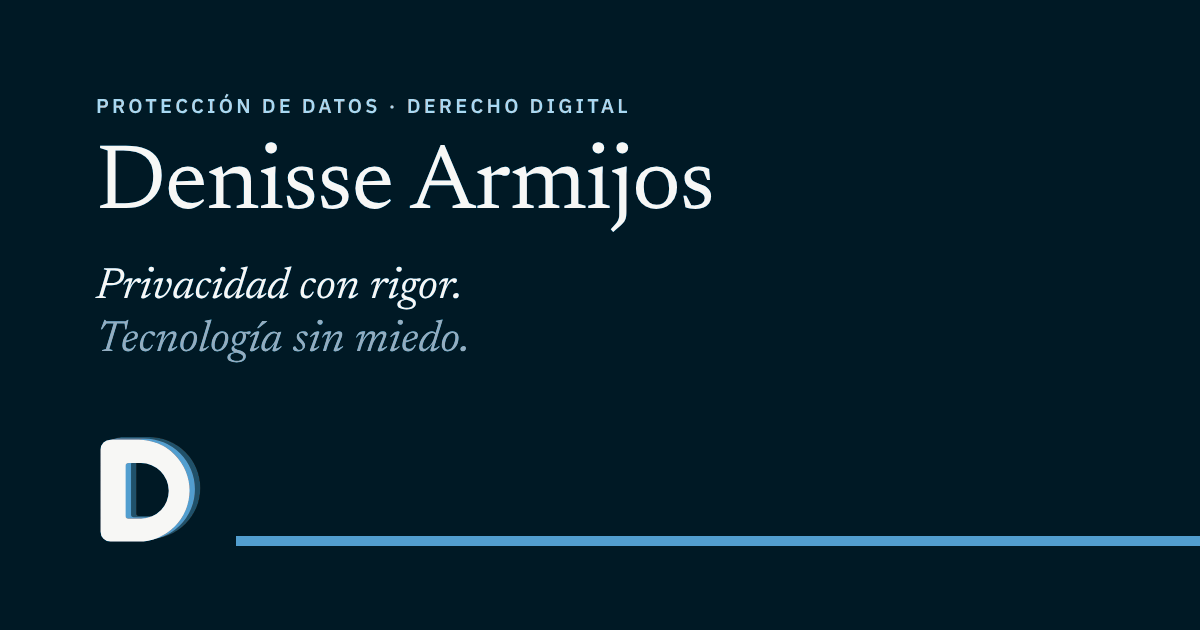
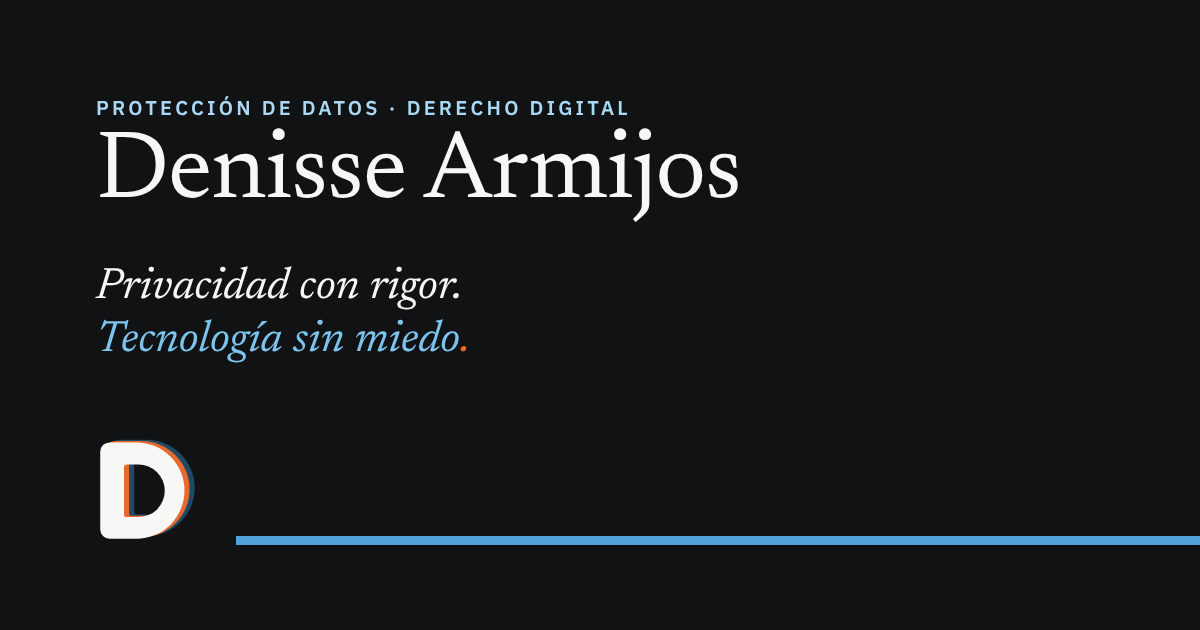
Paleta final: negro, beige, celeste como acento y naranja en los detalles
Claude-Session: https://claude.ai/code/session_01Mn9bzAvCkAq1xe9Q4DXtMq

diff --git a/perfil.html b/perfil.html
@@ -15,7 +15,7 @@
 <meta property="og:locale" content="es_EC">
 <meta name="twitter:card" content="summary_large_image">
 <link rel="stylesheet" href="fonts.css">
-<link rel="stylesheet" href="styles.css?v=20261123b">
+<link rel="stylesheet" href="styles.css?v=20261123c">
 <link rel="icon" href="favicon.svg" type="image/svg+xml">
 <link rel="apple-touch-icon" href="apple-touch-icon.png">
 <script>if('IntersectionObserver' in window && !matchMedia('(prefers-reduced-motion: reduce)').matches) document.documentElement.classList.add('anim');</script>
@@ -50,8 +50,8 @@ a:focus-visible, button:focus-visible { outline: 2px solid var(--senal); outline
 .wrap { max-width: var(--max); margin: 0 auto; padding-left: max(24px, env(safe-area-inset-left, 0px)); padding-right: max(24px, env(safe-area-inset-right, 0px)); }
 @media (max-width: 480px) { .wrap { padding-left: max(16px, env(safe-area-inset-left, 0px)); padding-right: max(16px, env(safe-area-inset-right, 0px)); } }
 .kicker { font-size: 12px; font-weight: 600; letter-spacing: .16em; text-transform: uppercase; }
-.mark { --d1: var(--senal); --d2: #CBE6F5; color: var(--tinta); }
-.mark.on-dark { --d1: var(--senal); --d2: #1E4A63; color: var(--papel); }
+.mark { --d1: var(--naranja); --d2: #CBE6F5; color: var(--tinta); }
+.mark.on-dark { --d1: var(--naranja-claro); --d2: #1E4A63; color: var(--papel); }
 
 
 /* Portada de la biografía */
@@ -95,7 +95,7 @@ a:focus-visible, button:focus-visible { outline: 2px solid var(--senal); outline
 /* Trabajemos juntos */
 .cta { background: var(--blanco); border-top: 1px solid var(--niebla); border-bottom: 1px solid var(--niebla); }
 .cta .wrap { padding-block: 88px; }
-.cta h2 .punto { color: var(--senal); }
+.cta h2 .punto { color: var(--naranja); }
 .cta h2 { font-family: var(--display); font-weight: 400; font-size: clamp(34px, 4.4vw, 52px); line-height: 1.05; letter-spacing: -.01em; margin: 0 0 40px; max-width: 18ch; }
 .offers { display: grid; grid-template-columns: repeat(3, minmax(0, 1fr)); gap: 28px; margin-bottom: 48px; }
 .offer { border-top: 2px solid var(--tinta); padding-top: 18px; display: grid; gap: 8px; align-content: start; }
@@ -133,7 +133,7 @@ a:focus-visible, button:focus-visible { outline: 2px solid var(--senal); outline
 <svg width="0" height="0" style="position:absolute" aria-hidden="true">
   <symbol id="logo-d" viewBox="90 68 245 252">
     <path style="fill:var(--d2,#CBE6F5)" fill-rule="evenodd" transform="translate(24,-6)" d="M122 83 H185 A113.5 113.5 0 0 1 185 310 H122 A22 22 0 0 1 100 288 V105 A22 22 0 0 1 122 83 Z M162 135 H190 A62 62 0 0 1 190 259 H162 A6 6 0 0 1 156 253 V141 A6 6 0 0 1 162 135 Z"/>
-    <path style="fill:var(--d1,#4FA3D9)" fill-rule="evenodd" transform="translate(12,-3)" d="M122 83 H185 A113.5 113.5 0 0 1 185 310 H122 A22 22 0 0 1 100 288 V105 A22 22 0 0 1 122 83 Z M162 135 H190 A62 62 0 0 1 190 259 H162 A6 6 0 0 1 156 253 V141 A6 6 0 0 1 162 135 Z"/>
+    <path style="fill:var(--d1,#C2410C)" fill-rule="evenodd" transform="translate(12,-3)" d="M122 83 H185 A113.5 113.5 0 0 1 185 310 H122 A22 22 0 0 1 100 288 V105 A22 22 0 0 1 122 83 Z M162 135 H190 A62 62 0 0 1 190 259 H162 A6 6 0 0 1 156 253 V141 A6 6 0 0 1 162 135 Z"/>
     <path fill="currentColor" fill-rule="evenodd" d="M122 83 H185 A113.5 113.5 0 0 1 185 310 H122 A22 22 0 0 1 100 288 V105 A22 22 0 0 1 122 83 Z M162 135 H190 A62 62 0 0 1 190 259 H162 A6 6 0 0 1 156 253 V141 A6 6 0 0 1 162 135 Z"/>
   </symbol>
   <symbol id="arrow" viewBox="0 0 28 14"><path d="M0 7h26M20 1l6 6-6 6" fill="none" stroke="currentColor" stroke-width="1.6"/></symbol>
@@ -306,6 +306,6 @@ a:focus-visible, button:focus-visible { outline: 2px solid var(--senal); outline
   });
 })();
 </script>
-<script src="site.js?v=20261123b" defer></script>
+<script src="site.js?v=20261123c" defer></script>
 </body>
 </html>

diff --git a/publicaciones/politicas-de-privacidad.html b/publicaciones/politicas-de-privacidad.html
@@ -11,7 +11,7 @@
 <meta property="og:description" content="La diferencia entre publicar un documento y garantizar transparencia en el tratamiento de datos personales.">
 <meta property="article:published_time" content="2026-10-21">
 <link rel="stylesheet" href="../fonts.css">
-<link rel="stylesheet" href="../styles.css?v=20261123b">
+<link rel="stylesheet" href="../styles.css?v=20261123c">
 <link rel="icon" href="../favicon.svg" type="image/svg+xml">
 <link rel="apple-touch-icon" href="../apple-touch-icon.png">
 <meta name="theme-color" content="#111214">
@@ -108,7 +108,7 @@ figure.layers figcaption { font-size: 14px; color: var(--art-t2); margin-top: 12
 .refs a { color: var(--acento); overflow-wrap: anywhere; }
 .disclaimer { margin-top: 32px; font-size: 14px; font-style: italic; color: var(--art-t2); }
 .author { margin-top: 56px; background: var(--crema); border: 1px solid var(--linea); padding: 28px; display: grid; grid-template-columns: auto minmax(0, 1fr); gap: 22px; align-items: center; }
-.author svg { width: 48px; height: 50px; color: var(--carbon); --d1: #4FA3D9; --d2: #CBE6F5; }
+.author svg { width: 48px; height: 50px; color: var(--carbon); --d1: #C2410C; --d2: #CBE6F5; }
 .author p { margin: 0; font-size: 15px; color: var(--art-t2); }
 .author strong { font-family: var(--display); font-weight: 500; font-size: 22px; color: var(--carbon); display: block; }
 .more { display: inline-flex; align-items: center; gap: 14px; text-decoration: none; font-size: 13px; font-weight: 600; color: var(--acento); letter-spacing: .18em; text-transform: uppercase; margin-top: 40px; }
@@ -121,7 +121,7 @@ figure.layers figcaption { font-size: 14px; color: var(--art-t2); margin-top: 12
 <svg width="0" height="0" style="position:absolute" aria-hidden="true">
   <symbol id="logo-d" viewBox="90 68 245 252">
     <path style="fill:var(--d2,#CBE6F5)" fill-rule="evenodd" transform="translate(24,-6)" d="M122 83 H185 A113.5 113.5 0 0 1 185 310 H122 A22 22 0 0 1 100 288 V105 A22 22 0 0 1 122 83 Z M162 135 H190 A62 62 0 0 1 190 259 H162 A6 6 0 0 1 156 253 V141 A6 6 0 0 1 162 135 Z"/>
-    <path style="fill:var(--d1,#4FA3D9)" fill-rule="evenodd" transform="translate(12,-3)" d="M122 83 H185 A113.5 113.5 0 0 1 185 310 H122 A22 22 0 0 1 100 288 V105 A22 22 0 0 1 122 83 Z M162 135 H190 A62 62 0 0 1 190 259 H162 A6 6 0 0 1 156 253 V141 A6 6 0 0 1 162 135 Z"/>
+    <path style="fill:var(--d1,#C2410C)" fill-rule="evenodd" transform="translate(12,-3)" d="M122 83 H185 A113.5 113.5 0 0 1 185 310 H122 A22 22 0 0 1 100 288 V105 A22 22 0 0 1 122 83 Z M162 135 H190 A62 62 0 0 1 190 259 H162 A6 6 0 0 1 156 253 V141 A6 6 0 0 1 162 135 Z"/>
     <path fill="currentColor" fill-rule="evenodd" d="M122 83 H185 A113.5 113.5 0 0 1 185 310 H122 A22 22 0 0 1 100 288 V105 A22 22 0 0 1 122 83 Z M162 135 H190 A62 62 0 0 1 190 259 H162 A6 6 0 0 1 156 253 V141 A6 6 0 0 1 162 135 Z"/>
   </symbol>
   <symbol id="arrow" viewBox="0 0 28 14"><path d="M0 7h26M20 1l6 6-6 6" fill="none" stroke="currentColor" stroke-width="1.6"/></symbol>
@@ -375,6 +375,6 @@ figure.layers figcaption { font-size: 14px; color: var(--art-t2); margin-top: 12
   update();
 })();
 </script>
-<script src="../site.js?v=20261123b" defer></script>
+<script src="../site.js?v=20261123c" defer></script>
 </body>
 </html>

diff --git a/styles.css b/styles.css
@@ -1,5 +1,5 @@
 /* Estilos compartidos — marca Denisse Armijos
-   Fondo papel, negro para textos y bloques, un solo acento celeste.
+   Fondo papel, negro para textos y bloques, acento celeste y detalles en naranja.
    Títulos en Newsreader, textos e interfaz en IBM Plex Sans. */
 :root {
   --tinta: #111214;        /* negro: textos, logotipo, bloques */
@@ -7,6 +7,8 @@
   --senal: #4FA3D9;        /* celeste: acento */
   --senal-texto: #1D6A99;  /* celeste para textos pequeños sobre claro */
   --senal-claro: #7CC4EE;  /* celeste sobre fondo negro */
+  --naranja: #C2410C;      /* naranja: detalles (puntos finales y capa del logo) */
+  --naranja-claro: #E8692F;/* naranja sobre fondo negro */
   --senal-suave: #A9D8F2;  /* etiquetas pequeñas sobre fondo negro */
   --niebla: #DEDEDE;       /* líneas y bordes */
   --blanco: #FFFFFF;
@@ -38,8 +40,8 @@ a:focus-visible, button:focus-visible { outline: 2px solid var(--senal); outline
 .date svg { width: 18px; height: 18px; flex: none; }
 
 /* Isotipo e iconos: sus colores se controlan con variables */
-.mark { --d1: var(--senal); --d2: #CBE6F5; color: var(--tinta); }
-.mark.on-dark { --d1: var(--senal); --d2: #1E4A63; color: var(--papel); }
+.mark { --d1: var(--naranja); --d2: #CBE6F5; color: var(--tinta); }
+.mark.on-dark { --d1: var(--naranja-claro); --d2: #1E4A63; color: var(--papel); }
 .ico { width: 56px; height: 56px; flex: none; --ic-line: var(--tinta); --ic-fill: var(--senal); }
 
 /* Enlace con flecha */
@@ -88,7 +90,7 @@ nav.main a[aria-current] { color: var(--senal-texto); border-bottom-color: var(-
 .masthead .wrap { padding-block: 72px 88px; position: relative; }
 .masthead .kicker { display: block; margin-bottom: 18px; }
 .masthead h1 { font-family: var(--display); font-weight: 400; font-size: clamp(42px, 6vw, 76px); line-height: 1.02; letter-spacing: -.015em; margin: 0; max-width: 18ch; text-wrap: balance; }
-.masthead h1 .punto { color: var(--senal); }
+.masthead h1 .punto { color: var(--naranja); }
 .masthead .intro { font-size: clamp(17px, 1.6vw, 20px); line-height: 1.55; color: var(--texto-2); max-width: 58ch; margin: 24px 0 0; }
 .masthead .rule { position: absolute; left: var(--rule-left, 24px); right: 0; bottom: 0; height: 5px; background: var(--senal); }
 @media (min-width: 1228px) { .masthead .rule { --rule-left: calc((100vw - var(--max)) / 2 + 24px); } }
@@ -119,7 +121,7 @@ a.area:hover { border-color: var(--senal); transform: translateY(-2px); }
 .talk { background: var(--tinta); color: var(--papel); }
 .talk .wrap { display: flex; align-items: center; justify-content: space-between; flex-wrap: wrap; gap: 24px 48px; padding-block: 56px; }
 .talk .btn { margin-left: auto; }
-.talk h2 .punto { color: var(--senal-claro); }
+.talk h2 .punto { color: var(--naranja-claro); }
 .talk h2 { font-family: var(--display); font-weight: 400; font-size: clamp(36px, 4.4vw, 52px); line-height: 1; letter-spacing: -.01em; margin: 0; }
 @media (max-width: 600px) { .talk .wrap { padding-block: 44px; } }
 

diff --git a/index.html b/index.html
@@ -16,7 +16,7 @@
 <meta name="twitter:card" content="summary_large_image">
 <link rel="canonical" href="https://darmijosflores.github.io/">
 <link rel="stylesheet" href="fonts.css">
-<link rel="stylesheet" href="styles.css?v=20261123b">
+<link rel="stylesheet" href="styles.css?v=20261123c">
 <link rel="icon" href="favicon.svg" type="image/svg+xml">
 <link rel="apple-touch-icon" href="apple-touch-icon.png">
 <script>if('IntersectionObserver' in window && !matchMedia('(prefers-reduced-motion: reduce)').matches) document.documentElement.classList.add('anim');</script>
@@ -35,7 +35,7 @@
 .hero h1 { font-family: var(--display); font-weight: 400; font-size: clamp(40px, 4.8vw, 68px); line-height: 1.06; letter-spacing: -.02em; margin: 0; }
 .hero h1 .l { display: block; white-space: nowrap; }
 @media (max-width: 760px) { .hero h1 .l { white-space: normal; } }
-.hero h1 .punto { color: var(--senal); }
+.hero h1 .punto { color: var(--naranja); }
 .hero .lede { margin: 26px 0 0; max-width: 34ch; font-size: 18px; line-height: 1.5; color: var(--texto-2); }
 .hero .line { position: absolute; z-index: 1; left: var(--rule-left, 24px); right: 0; bottom: 0; height: 5px; background: var(--senal); transform-origin: left; }
 @media (min-width: 1228px) { .hero .line { --rule-left: calc((100vw - var(--max)) / 2 + 24px); } }
@@ -83,7 +83,7 @@
 <svg width="0" height="0" style="position:absolute" aria-hidden="true">
   <symbol id="logo-d" viewBox="90 68 245 252">
     <path style="fill:var(--d2,#CBE6F5)" fill-rule="evenodd" transform="translate(24,-6)" d="M122 83 H185 A113.5 113.5 0 0 1 185 310 H122 A22 22 0 0 1 100 288 V105 A22 22 0 0 1 122 83 Z M162 135 H190 A62 62 0 0 1 190 259 H162 A6 6 0 0 1 156 253 V141 A6 6 0 0 1 162 135 Z"/>
-    <path style="fill:var(--d1,#4FA3D9)" fill-rule="evenodd" transform="translate(12,-3)" d="M122 83 H185 A113.5 113.5 0 0 1 185 310 H122 A22 22 0 0 1 100 288 V105 A22 22 0 0 1 122 83 Z M162 135 H190 A62 62 0 0 1 190 259 H162 A6 6 0 0 1 156 253 V141 A6 6 0 0 1 162 135 Z"/>
+    <path style="fill:var(--d1,#C2410C)" fill-rule="evenodd" transform="translate(12,-3)" d="M122 83 H185 A113.5 113.5 0 0 1 185 310 H122 A22 22 0 0 1 100 288 V105 A22 22 0 0 1 122 83 Z M162 135 H190 A62 62 0 0 1 190 259 H162 A6 6 0 0 1 156 253 V141 A6 6 0 0 1 162 135 Z"/>
     <path fill="currentColor" fill-rule="evenodd" d="M122 83 H185 A113.5 113.5 0 0 1 185 310 H122 A22 22 0 0 1 100 288 V105 A22 22 0 0 1 122 83 Z M162 135 H190 A62 62 0 0 1 190 259 H162 A6 6 0 0 1 156 253 V141 A6 6 0 0 1 162 135 Z"/>
   </symbol>
   <symbol id="arrow" viewBox="0 0 28 14"><path d="M0 7h26M20 1l6 6-6 6" fill="none" stroke="currentColor" stroke-width="1.6"/></symbol>
@@ -253,6 +253,6 @@
   </div>
 </footer>
 
-<script src="site.js?v=20261123b" defer></script>
+<script src="site.js?v=20261123c" defer></script>
 </body>
 </html>

diff --git a/especializacion.html b/especializacion.html
@@ -16,7 +16,7 @@
 <meta name="twitter:card" content="summary_large_image">
 <link rel="canonical" href="https://darmijosflores.github.io/especializacion.html">
 <link rel="stylesheet" href="fonts.css">
-<link rel="stylesheet" href="styles.css?v=20261123b">
+<link rel="stylesheet" href="styles.css?v=20261123c">
 <link rel="icon" href="favicon.svg" type="image/svg+xml">
 <link rel="apple-touch-icon" href="apple-touch-icon.png">
 <script>if('IntersectionObserver' in window && !matchMedia('(prefers-reduced-motion: reduce)').matches) document.documentElement.classList.add('anim');</script>
@@ -45,7 +45,7 @@
 <svg width="0" height="0" style="position:absolute" aria-hidden="true">
   <symbol id="logo-d" viewBox="90 68 245 252">
     <path style="fill:var(--d2,#CBE6F5)" fill-rule="evenodd" transform="translate(24,-6)" d="M122 83 H185 A113.5 113.5 0 0 1 185 310 H122 A22 22 0 0 1 100 288 V105 A22 22 0 0 1 122 83 Z M162 135 H190 A62 62 0 0 1 190 259 H162 A6 6 0 0 1 156 253 V141 A6 6 0 0 1 162 135 Z"/>
-    <path style="fill:var(--d1,#4FA3D9)" fill-rule="evenodd" transform="translate(12,-3)" d="M122 83 H185 A113.5 113.5 0 0 1 185 310 H122 A22 22 0 0 1 100 288 V105 A22 22 0 0 1 122 83 Z M162 135 H190 A62 62 0 0 1 190 259 H162 A6 6 0 0 1 156 253 V141 A6 6 0 0 1 162 135 Z"/>
+    <path style="fill:var(--d1,#C2410C)" fill-rule="evenodd" transform="translate(12,-3)" d="M122 83 H185 A113.5 113.5 0 0 1 185 310 H122 A22 22 0 0 1 100 288 V105 A22 22 0 0 1 122 83 Z M162 135 H190 A62 62 0 0 1 190 259 H162 A6 6 0 0 1 156 253 V141 A6 6 0 0 1 162 135 Z"/>
     <path fill="currentColor" fill-rule="evenodd" d="M122 83 H185 A113.5 113.5 0 0 1 185 310 H122 A22 22 0 0 1 100 288 V105 A22 22 0 0 1 122 83 Z M162 135 H190 A62 62 0 0 1 190 259 H162 A6 6 0 0 1 156 253 V141 A6 6 0 0 1 162 135 Z"/>
   </symbol>
   <symbol id="arrow" viewBox="0 0 28 14"><path d="M0 7h26M20 1l6 6-6 6" fill="none" stroke="currentColor" stroke-width="1.6"/></symbol>
@@ -178,6 +178,6 @@
   </div>
 </footer>
 
-<script src="site.js?v=20261123b" defer></script>
+<script src="site.js?v=20261123c" defer></script>
 </body>
 </html>

diff --git a/investigacion.html b/investigacion.html
@@ -16,7 +16,7 @@
 <meta name="twitter:card" content="summary_large_image">
 <link rel="canonical" href="https://darmijosflores.github.io/investigacion.html">
 <link rel="stylesheet" href="fonts.css">
-<link rel="stylesheet" href="styles.css?v=20261123b">
+<link rel="stylesheet" href="styles.css?v=20261123c">
 <link rel="icon" href="favicon.svg" type="image/svg+xml">
 <link rel="apple-touch-icon" href="apple-touch-icon.png">
 <script>if('IntersectionObserver' in window && !matchMedia('(prefers-reduced-motion: reduce)').matches) document.documentElement.classList.add('anim');</script>
@@ -41,7 +41,7 @@
 <svg width="0" height="0" style="position:absolute" aria-hidden="true">
   <symbol id="logo-d" viewBox="90 68 245 252">
     <path style="fill:var(--d2,#CBE6F5)" fill-rule="evenodd" transform="translate(24,-6)" d="M122 83 H185 A113.5 113.5 0 0 1 185 310 H122 A22 22 0 0 1 100 288 V105 A22 22 0 0 1 122 83 Z M162 135 H190 A62 62 0 0 1 190 259 H162 A6 6 0 0 1 156 253 V141 A6 6 0 0 1 162 135 Z"/>
-    <path style="fill:var(--d1,#4FA3D9)" fill-rule="evenodd" transform="translate(12,-3)" d="M122 83 H185 A113.5 113.5 0 0 1 185 310 H122 A22 22 0 0 1 100 288 V105 A22 22 0 0 1 122 83 Z M162 135 H190 A62 62 0 0 1 190 259 H162 A6 6 0 0 1 156 253 V141 A6 6 0 0 1 162 135 Z"/>
+    <path style="fill:var(--d1,#C2410C)" fill-rule="evenodd" transform="translate(12,-3)" d="M122 83 H185 A113.5 113.5 0 0 1 185 310 H122 A22 22 0 0 1 100 288 V105 A22 22 0 0 1 122 83 Z M162 135 H190 A62 62 0 0 1 190 259 H162 A6 6 0 0 1 156 253 V141 A6 6 0 0 1 162 135 Z"/>
     <path fill="currentColor" fill-rule="evenodd" d="M122 83 H185 A113.5 113.5 0 0 1 185 310 H122 A22 22 0 0 1 100 288 V105 A22 22 0 0 1 122 83 Z M162 135 H190 A62 62 0 0 1 190 259 H162 A6 6 0 0 1 156 253 V141 A6 6 0 0 1 162 135 Z"/>
   </symbol>
   <symbol id="arrow" viewBox="0 0 28 14"><path d="M0 7h26M20 1l6 6-6 6" fill="none" stroke="currentColor" stroke-width="1.6"/></symbol>
@@ -156,6 +156,6 @@
   </div>
 </footer>
 
-<script src="site.js?v=20261123b" defer></script>
+<script src="site.js?v=20261123c" defer></script>
 </body>
 </html>

diff --git a/publicaciones.html b/publicaciones.html
@@ -16,7 +16,7 @@
 <meta name="twitter:card" content="summary_large_image">
 <link rel="canonical" href="https://darmijosflores.github.io/publicaciones.html">
 <link rel="stylesheet" href="fonts.css">
-<link rel="stylesheet" href="styles.css?v=20261123b">
+<link rel="stylesheet" href="styles.css?v=20261123c">
 <link rel="icon" href="favicon.svg" type="image/svg+xml">
 <link rel="apple-touch-icon" href="apple-touch-icon.png">
 <script>if('IntersectionObserver' in window && !matchMedia('(prefers-reduced-motion: reduce)').matches) document.documentElement.classList.add('anim');</script>
@@ -47,7 +47,7 @@
 <svg width="0" height="0" style="position:absolute" aria-hidden="true">
   <symbol id="logo-d" viewBox="90 68 245 252">
     <path style="fill:var(--d2,#CBE6F5)" fill-rule="evenodd" transform="translate(24,-6)" d="M122 83 H185 A113.5 113.5 0 0 1 185 310 H122 A22 22 0 0 1 100 288 V105 A22 22 0 0 1 122 83 Z M162 135 H190 A62 62 0 0 1 190 259 H162 A6 6 0 0 1 156 253 V141 A6 6 0 0 1 162 135 Z"/>
-    <path style="fill:var(--d1,#4FA3D9)" fill-rule="evenodd" transform="translate(12,-3)" d="M122 83 H185 A113.5 113.5 0 0 1 185 310 H122 A22 22 0 0 1 100 288 V105 A22 22 0 0 1 122 83 Z M162 135 H190 A62 62 0 0 1 190 259 H162 A6 6 0 0 1 156 253 V141 A6 6 0 0 1 162 135 Z"/>
+    <path style="fill:var(--d1,#C2410C)" fill-rule="evenodd" transform="translate(12,-3)" d="M122 83 H185 A113.5 113.5 0 0 1 185 310 H122 A22 22 0 0 1 100 288 V105 A22 22 0 0 1 122 83 Z M162 135 H190 A62 62 0 0 1 190 259 H162 A6 6 0 0 1 156 253 V141 A6 6 0 0 1 162 135 Z"/>
     <path fill="currentColor" fill-rule="evenodd" d="M122 83 H185 A113.5 113.5 0 0 1 185 310 H122 A22 22 0 0 1 100 288 V105 A22 22 0 0 1 122 83 Z M162 135 H190 A62 62 0 0 1 190 259 H162 A6 6 0 0 1 156 253 V141 A6 6 0 0 1 162 135 Z"/>
   </symbol>
   <symbol id="arrow" viewBox="0 0 28 14"><path d="M0 7h26M20 1l6 6-6 6" fill="none" stroke="currentColor" stroke-width="1.6"/></symbol>
@@ -173,6 +173,6 @@
   </div>
 </footer>
 
-<script src="site.js?v=20261123b" defer></script>
+<script src="site.js?v=20261123c" defer></script>
 </body>
 </html>

diff --git a/aviso-legal.html b/aviso-legal.html
@@ -16,7 +16,7 @@
 <meta name="twitter:card" content="summary_large_image">
 <link rel="canonical" href="https://darmijosflores.github.io/aviso-legal.html">
 <link rel="stylesheet" href="fonts.css">
-<link rel="stylesheet" href="styles.css?v=20261123b">
+<link rel="stylesheet" href="styles.css?v=20261123c">
 <link rel="icon" href="favicon.svg" type="image/svg+xml">
 <link rel="apple-touch-icon" href="apple-touch-icon.png">
 <script>if('IntersectionObserver' in window && !matchMedia('(prefers-reduced-motion: reduce)').matches) document.documentElement.classList.add('anim');</script>
@@ -38,7 +38,7 @@
 <svg width="0" height="0" style="position:absolute" aria-hidden="true">
   <symbol id="logo-d" viewBox="90 68 245 252">
     <path style="fill:var(--d2,#CBE6F5)" fill-rule="evenodd" transform="translate(24,-6)" d="M122 83 H185 A113.5 113.5 0 0 1 185 310 H122 A22 22 0 0 1 100 288 V105 A22 22 0 0 1 122 83 Z M162 135 H190 A62 62 0 0 1 190 259 H162 A6 6 0 0 1 156 253 V141 A6 6 0 0 1 162 135 Z"/>
-    <path style="fill:var(--d1,#4FA3D9)" fill-rule="evenodd" transform="translate(12,-3)" d="M122 83 H185 A113.5 113.5 0 0 1 185 310 H122 A22 22 0 0 1 100 288 V105 A22 22 0 0 1 122 83 Z M162 135 H190 A62 62 0 0 1 190 259 H162 A6 6 0 0 1 156 253 V141 A6 6 0 0 1 162 135 Z"/>
+    <path style="fill:var(--d1,#C2410C)" fill-rule="evenodd" transform="translate(12,-3)" d="M122 83 H185 A113.5 113.5 0 0 1 185 310 H122 A22 22 0 0 1 100 288 V105 A22 22 0 0 1 122 83 Z M162 135 H190 A62 62 0 0 1 190 259 H162 A6 6 0 0 1 156 253 V141 A6 6 0 0 1 162 135 Z"/>
     <path fill="currentColor" fill-rule="evenodd" d="M122 83 H185 A113.5 113.5 0 0 1 185 310 H122 A22 22 0 0 1 100 288 V105 A22 22 0 0 1 122 83 Z M162 135 H190 A62 62 0 0 1 190 259 H162 A6 6 0 0 1 156 253 V141 A6 6 0 0 1 162 135 Z"/>
   </symbol>
   <symbol id="arrow" viewBox="0 0 28 14"><path d="M0 7h26M20 1l6 6-6 6" fill="none" stroke="currentColor" stroke-width="1.6"/></symbol>
@@ -151,6 +151,6 @@
   </div>
 </footer>
 
-<script src="site.js?v=20261123b" defer></script>
+<script src="site.js?v=20261123c" defer></script>
 </body>
 </html>

diff --git a/privacidad.html b/privacidad.html
@@ -16,7 +16,7 @@
 <meta name="twitter:card" content="summary_large_image">
 <link rel="canonical" href="https://darmijosflores.github.io/privacidad.html">
 <link rel="stylesheet" href="fonts.css">
-<link rel="stylesheet" href="styles.css?v=20261123b">
+<link rel="stylesheet" href="styles.css?v=20261123c">
 <link rel="icon" href="favicon.svg" type="image/svg+xml">
 <link rel="apple-touch-icon" href="apple-touch-icon.png">
 <script>if('IntersectionObserver' in window && !matchMedia('(prefers-reduced-motion: reduce)').matches) document.documentElement.classList.add('anim');</script>
@@ -38,7 +38,7 @@
 <svg width="0" height="0" style="position:absolute" aria-hidden="true">
   <symbol id="logo-d" viewBox="90 68 245 252">
     <path style="fill:var(--d2,#CBE6F5)" fill-rule="evenodd" transform="translate(24,-6)" d="M122 83 H185 A113.5 113.5 0 0 1 185 310 H122 A22 22 0 0 1 100 288 V105 A22 22 0 0 1 122 83 Z M162 135 H190 A62 62 0 0 1 190 259 H162 A6 6 0 0 1 156 253 V141 A6 6 0 0 1 162 135 Z"/>
-    <path style="fill:var(--d1,#4FA3D9)" fill-rule="evenodd" transform="translate(12,-3)" d="M122 83 H185 A113.5 113.5 0 0 1 185 310 H122 A22 22 0 0 1 100 288 V105 A22 22 0 0 1 122 83 Z M162 135 H190 A62 62 0 0 1 190 259 H162 A6 6 0 0 1 156 253 V141 A6 6 0 0 1 162 135 Z"/>
+    <path style="fill:var(--d1,#C2410C)" fill-rule="evenodd" transform="translate(12,-3)" d="M122 83 H185 A113.5 113.5 0 0 1 185 310 H122 A22 22 0 0 1 100 288 V105 A22 22 0 0 1 122 83 Z M162 135 H190 A62 62 0 0 1 190 259 H162 A6 6 0 0 1 156 253 V141 A6 6 0 0 1 162 135 Z"/>
     <path fill="currentColor" fill-rule="evenodd" d="M122 83 H185 A113.5 113.5 0 0 1 185 310 H122 A22 22 0 0 1 100 288 V105 A22 22 0 0 1 122 83 Z M162 135 H190 A62 62 0 0 1 190 259 H162 A6 6 0 0 1 156 253 V141 A6 6 0 0 1 162 135 Z"/>
   </symbol>
   <symbol id="arrow" viewBox="0 0 28 14"><path d="M0 7h26M20 1l6 6-6 6" fill="none" stroke="currentColor" stroke-width="1.6"/></symbol>
@@ -164,6 +164,6 @@
   </div>
 </footer>
 
-<script src="site.js?v=20261123b" defer></script>
+<script src="site.js?v=20261123c" defer></script>
 </body>
 </html>

diff --git a/observatorio.html b/observatorio.html
@@ -16,7 +16,7 @@
 <meta name="twitter:card" content="summary_large_image">
 <link rel="canonical" href="https://darmijosflores.github.io/observatorio.html">
 <link rel="stylesheet" href="fonts.css">
-<link rel="stylesheet" href="styles.css?v=20261123b">
+<link rel="stylesheet" href="styles.css?v=20261123c">
 <link rel="icon" href="favicon.svg" type="image/svg+xml">
 <link rel="apple-touch-icon" href="apple-touch-icon.png">
 <script>
@@ -63,7 +63,7 @@ document.addEventListener('DOMContentLoaded', function () {
 <svg width="0" height="0" style="position:absolute" aria-hidden="true">
   <symbol id="logo-d" viewBox="90 68 245 252">
     <path style="fill:var(--d2,#CBE6F5)" fill-rule="evenodd" transform="translate(24,-6)" d="M122 83 H185 A113.5 113.5 0 0 1 185 310 H122 A22 22 0 0 1 100 288 V105 A22 22 0 0 1 122 83 Z M162 135 H190 A62 62 0 0 1 190 259 H162 A6 6 0 0 1 156 253 V141 A6 6 0 0 1 162 135 Z"/>
-    <path style="fill:var(--d1,#4FA3D9)" fill-rule="evenodd" transform="translate(12,-3)" d="M122 83 H185 A113.5 113.5 0 0 1 185 310 H122 A22 22 0 0 1 100 288 V105 A22 22 0 0 1 122 83 Z M162 135 H190 A62 62 0 0 1 190 259 H162 A6 6 0 0 1 156 253 V141 A6 6 0 0 1 162 135 Z"/>
+    <path style="fill:var(--d1,#C2410C)" fill-rule="evenodd" transform="translate(12,-3)" d="M122 83 H185 A113.5 113.5 0 0 1 185 310 H122 A22 22 0 0 1 100 288 V105 A22 22 0 0 1 122 83 Z M162 135 H190 A62 62 0 0 1 190 259 H162 A6 6 0 0 1 156 253 V141 A6 6 0 0 1 162 135 Z"/>
     <path fill="currentColor" fill-rule="evenodd" d="M122 83 H185 A113.5 113.5 0 0 1 185 310 H122 A22 22 0 0 1 100 288 V105 A22 22 0 0 1 122 83 Z M162 135 H190 A62 62 0 0 1 190 259 H162 A6 6 0 0 1 156 253 V141 A6 6 0 0 1 162 135 Z"/>
   </symbol>
   <symbol id="arrow" viewBox="0 0 28 14"><path d="M0 7h26M20 1l6 6-6 6" fill="none" stroke="currentColor" stroke-width="1.6"/></symbol>
@@ -201,6 +201,6 @@ document.addEventListener('DOMContentLoaded', function () {
   </div>
 </footer>
 
-<script src="site.js?v=20261123b" defer></script>
+<script src="site.js?v=20261123c" defer></script>
 </body>
 </html>

diff --git a/contacto.html b/contacto.html
@@ -16,7 +16,7 @@
 <meta name="twitter:card" content="summary_large_image">
 <link rel="canonical" href="https://darmijosflores.github.io/contacto.html">
 <link rel="stylesheet" href="fonts.css">
-<link rel="stylesheet" href="styles.css?v=20261123b">
+<link rel="stylesheet" href="styles.css?v=20261123c">
 <link rel="icon" href="favicon.svg" type="image/svg+xml">
 <link rel="apple-touch-icon" href="apple-touch-icon.png">
 <script>
@@ -54,7 +54,7 @@ a.ch:hover { border-color: var(--senal); }
 <svg width="0" height="0" style="position:absolute" aria-hidden="true">
   <symbol id="logo-d" viewBox="90 68 245 252">
     <path style="fill:var(--d2,#CBE6F5)" fill-rule="evenodd" transform="translate(24,-6)" d="M122 83 H185 A113.5 113.5 0 0 1 185 310 H122 A22 22 0 0 1 100 288 V105 A22 22 0 0 1 122 83 Z M162 135 H190 A62 62 0 0 1 190 259 H162 A6 6 0 0 1 156 253 V141 A6 6 0 0 1 162 135 Z"/>
-    <path style="fill:var(--d1,#4FA3D9)" fill-rule="evenodd" transform="translate(12,-3)" d="M122 83 H185 A113.5 113.5 0 0 1 185 310 H122 A22 22 0 0 1 100 288 V105 A22 22 0 0 1 122 83 Z M162 135 H190 A62 62 0 0 1 190 259 H162 A6 6 0 0 1 156 253 V141 A6 6 0 0 1 162 135 Z"/>
+    <path style="fill:var(--d1,#C2410C)" fill-rule="evenodd" transform="translate(12,-3)" d="M122 83 H185 A113.5 113.5 0 0 1 185 310 H122 A22 22 0 0 1 100 288 V105 A22 22 0 0 1 122 83 Z M162 135 H190 A62 62 0 0 1 190 259 H162 A6 6 0 0 1 156 253 V141 A6 6 0 0 1 162 135 Z"/>
     <path fill="currentColor" fill-rule="evenodd" d="M122 83 H185 A113.5 113.5 0 0 1 185 310 H122 A22 22 0 0 1 100 288 V105 A22 22 0 0 1 122 83 Z M162 135 H190 A62 62 0 0 1 190 259 H162 A6 6 0 0 1 156 253 V141 A6 6 0 0 1 162 135 Z"/>
   </symbol>
   <symbol id="arrow" viewBox="0 0 28 14"><path d="M0 7h26M20 1l6 6-6 6" fill="none" stroke="currentColor" stroke-width="1.6"/></symbol>
@@ -188,6 +188,6 @@ a.ch:hover { border-color: var(--senal); }
   </div>
 </footer>
 
-<script src="site.js?v=20261123b" defer></script>
+<script src="site.js?v=20261123c" defer></script>
 </body>
 </html>
